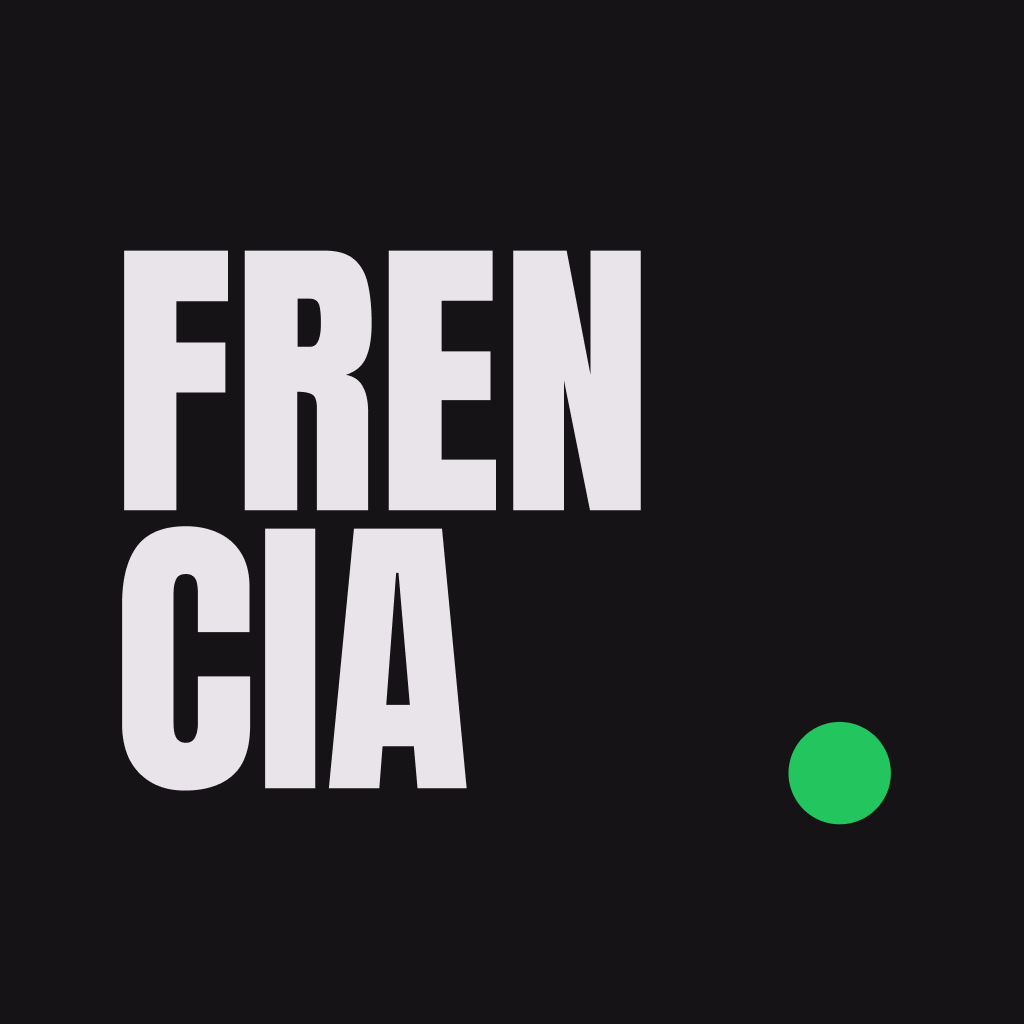
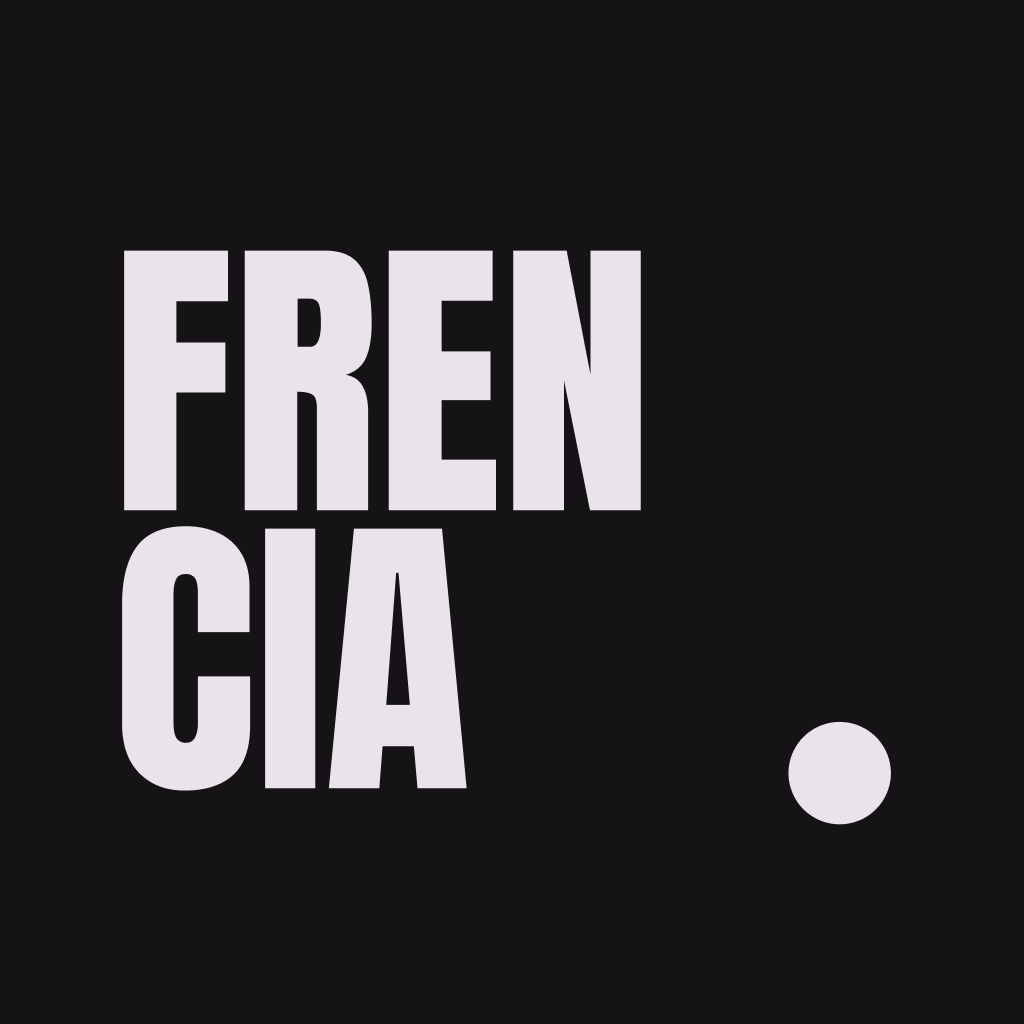
Pinto el punto del icono del mismo color que la tipografia en claro y oscuro
El punto deja de ser verde: negro en el icono claro y #E8E4E9 en el oscuro. Regenero el adaptive icon, el monocromo, el splash y el favicon a partir de los iconos nuevos y actualizo el spec.

Changed region(s): [[0.75, 0.6875, 0.875, 0.8125]]

diff --git a/docs/specs/icono-de-app.md b/docs/specs/icono-de-app.md
@@ -5,7 +5,7 @@ Fecha: 2026-09-22
 
 ## 1. Decision
 
-El icono es el wordmark "FREN / CIA" con el punto verde. Hay dos versiones y
+El icono es el wordmark "FREN / CIA" con un punto. Hay dos versiones y
 se muestra una u otra segun el tema:
 
 | Tema   | Archivo                            | Fondo     | Letras    |
@@ -13,7 +13,8 @@ se muestra una u otra segun el tema:
 | Claro  | `assets/images/app-icon-light.png` | `#F9F9F9` | `#000000` |
 | Oscuro | `assets/images/app-icon-dark.png`  | `#161317` | `#E8E4E9` |
 
-El punto es `#22C55E` en las dos. **Por defecto se usa el claro.** El icono
+El punto va del mismo color que las letras en las dos versiones (sin verde).
+**Por defecto se usa el claro.** El icono
 verde con la "F" negra queda descartado y sus assets se borraron.
 
 ## 2. Donde se aplica
